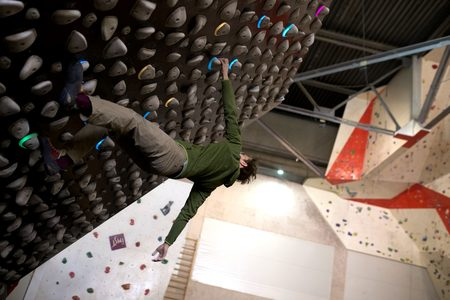
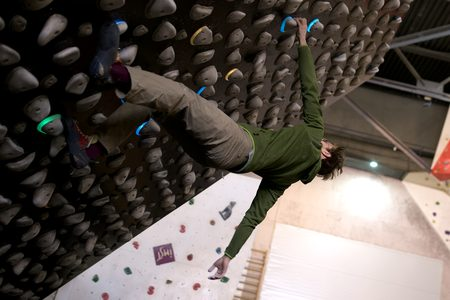
Collage: re-crop climb-06-wide tighter on the figure
First pass sat too wide — Igor small, empty gym wall filling the right half.
Re-cropped to a tight 4050x2700 window (still exactly 3:2) on the figure,
cutting the dead right-side wall and some ceiling. Same tonal lift, same
derived dims (450x300 / 900x600) and --32 class: no layout shift.

Master swapped climb-06-wide_v3 -> _v4_edited_highres.jpg.

diff --git a/BUILD-NOTES.md b/BUILD-NOTES.md
@@ -2281,21 +2281,22 @@ first climbing 4:5 slot.
 
 ### `climb-06-wide` — mid-move on the overhang, from the floor
 
-A low-angle action frame: Igor tensioned horizontal on a steep overhanging
-spray wall, one hand on a hold, the whole panel and the gym behind. Replaces
-the `climb-06-wide` stand-in — the second climbing 3:2 slot. Its shot-list
-intent ("the board from the floor, Igor small on it") and its existing
-caption *"The board, from the floor." / "Доска — снизу, от пола."* both fit
-as-is; only the `<img alt>` was filled in.
+A low-angle action frame: Igor tensioned on a steep overhanging spray wall,
+one hand on a hold, body running the diagonal. Replaces the `climb-06-wide`
+stand-in — the second climbing 3:2 slot. Its shot-list intent ("the board
+from the floor") and its existing caption *"The board, from the floor." /
+"Доска — снизу, от пола."* both fit as-is; only the `<img alt>` was filled in.
 
 - **Source** `~/Downloads/Climbing Photos/IMG_8681.CR2` — Canon RAW,
   5472×3648 (native 3:2). Decoded to JPEG with `sips` (no dcraw/ImageMagick
   on this machine), then edited in Pillow.
-- **Edit** trimmed 260px off the left (dead-dark wall) staying exactly 3:2,
+- **Edit** the first pass sat too wide — Igor small, dead gym wall filling the
+  right half. Re-cropped tight to a 4050×2700 window (still exactly 3:2) on
+  the figure, cutting the empty right-side wall and some ceiling.
   `autocontrast(cutoff=0.5)` then `Brightness ×1.06`, `Contrast ×1.03` — the
   gym frame was underexposed and needed a lift the seated shot did not. No
   colour work. Master at
-  `Claude outputs/climb-06-wide_v3_edited_highres.jpg` (5212×3475).
+  `Claude outputs/climb-06-wide_v4_edited_highres.jpg` (4050×2700).
 - **Derived** `climb-06-wide.jpg` 450×300 and `climb-06-wide@2x.jpg` 900×600,
   JPEG q82 — same dimensions and `--32` class as the stand-in.
 
